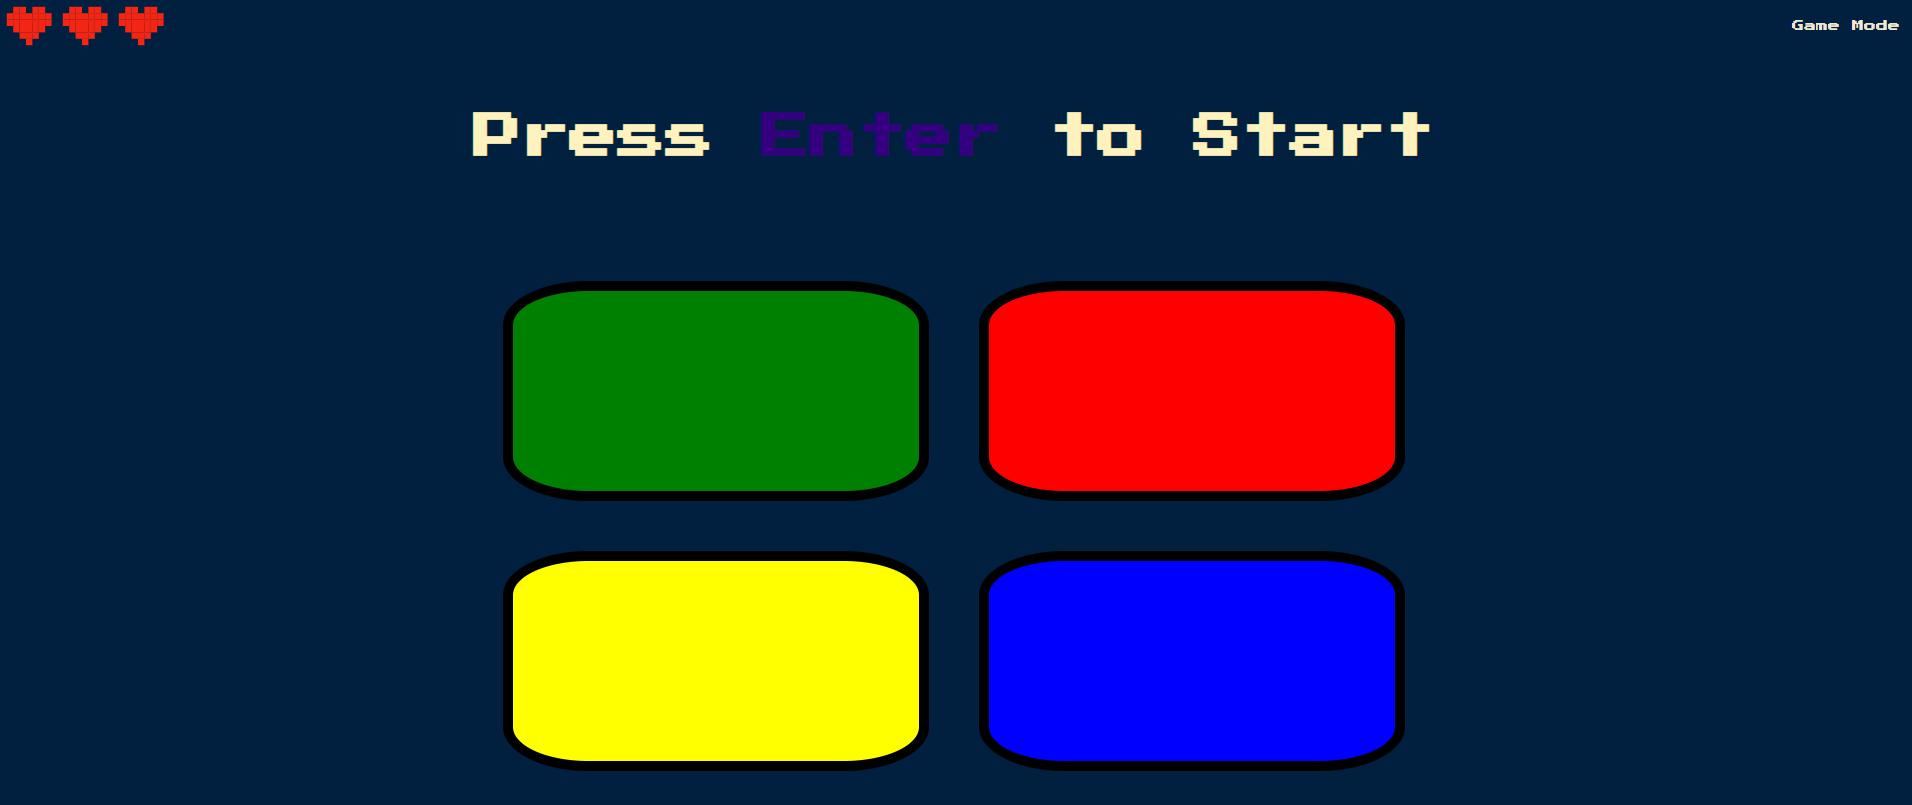
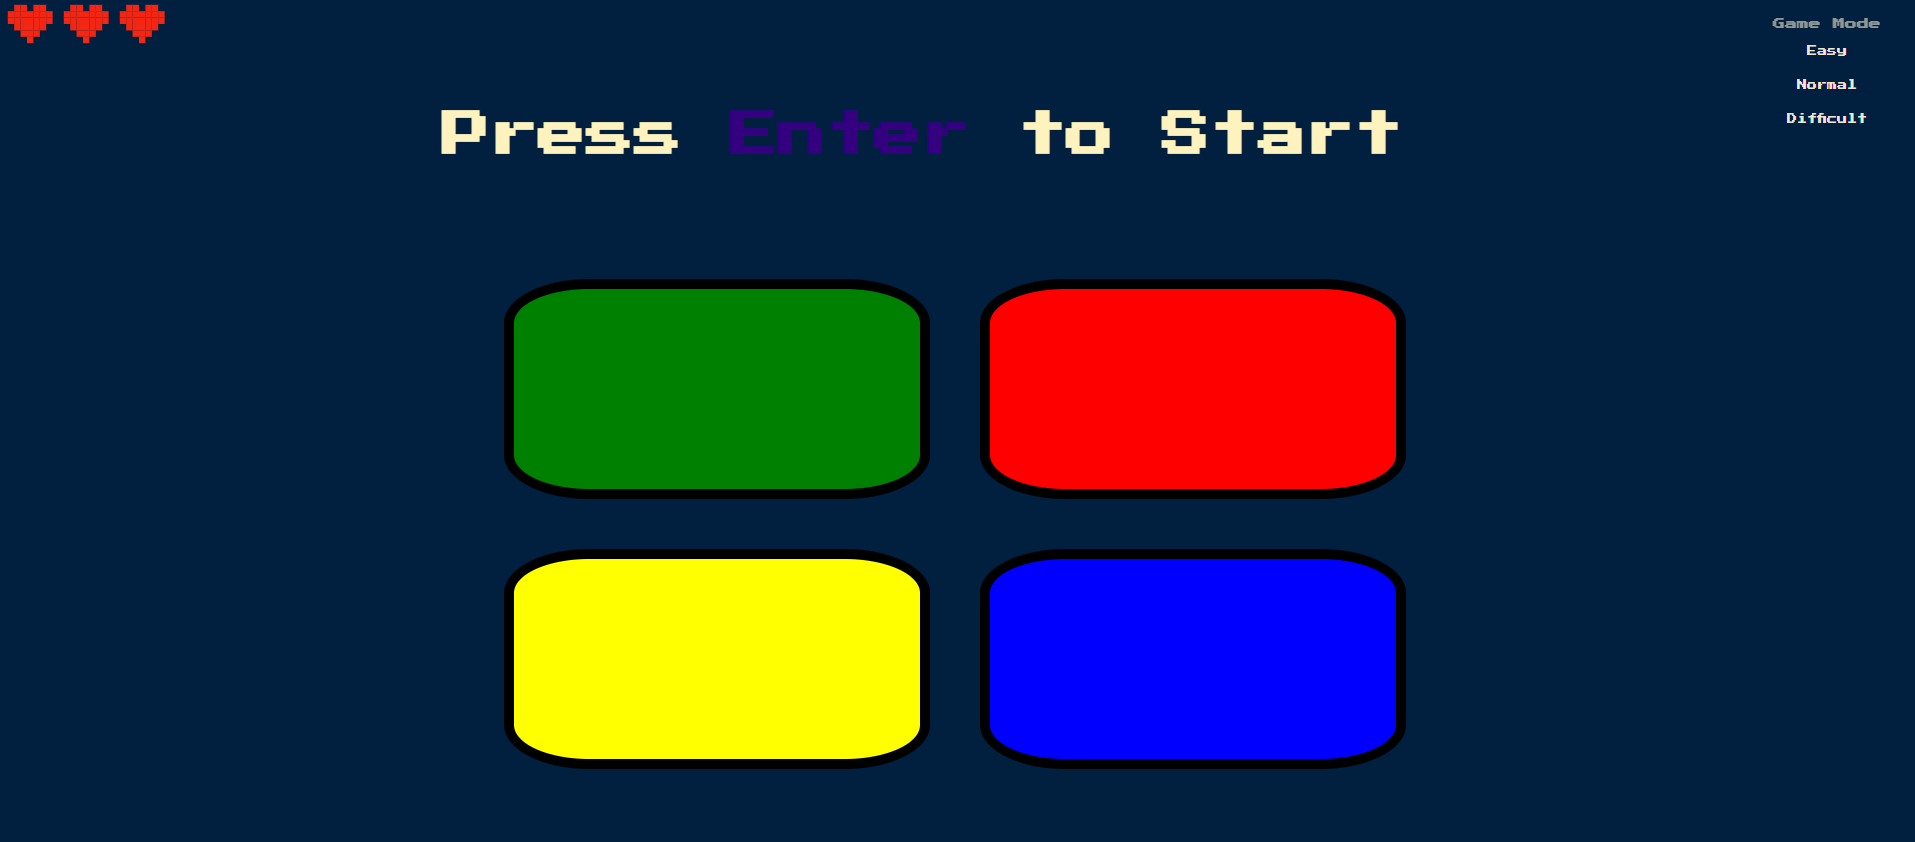
amend readme

diff --git a/README.md b/README.md
@@ -28,6 +28,16 @@ The game is deployed on GitHub pages, and you can play the game <a href="https:/
 <li>A Enter button to start the game</li>
 <li>A Restart button to go back to the game main page to re-play the game.</li>
 <br>
+ <p align="center">
+  <a href="" rel="noopener">
+ <img width=800px height=600px src="/images/Simon-Game-difficult.png" alt="Simon-Game-difficult"></a>
+</p>
+<br>
+ <p align="center">
+  <a href="" rel="noopener">
+ <img width=800px height=600px src="/images/Simon-Game-gameplay-normal.png" alt="Simon-Game-normal-gameplay"></a>
+</p>
+<br>
 
 ## Technologies & Tools Used
 <li>HTML</li>
@@ -172,7 +182,8 @@ numberOfLives = difficulty.numberOfLives;
 ```
 <li>Learning callbacks in class and applying it in practise</li>
 <br>
-The difficultyLevel function is the callback function that is called by getDifficuiltyLevel to compute the values for the maximum level and number of lives.<br> Which is later executed in response to a specific event such as the player clicking on a dropdown menu.
+<p>The difficultyLevel function is the callback function that is called by getDifficuiltyLevel to compute the values for the maximum level and number of lives.</p> 
+<p>Which is later executed in response to a specific event such as the player clicking on a dropdown menu.</p>
 
 ```
 function difficultyLevel(selectDifficultyLevel){
@@ -248,8 +259,16 @@ function getGameLevel(gameLevel){
 	return gameLevel;
 }
 ```
-<br>
 
+## Future Enhancements
+<p>As this game is part of a project submission, there would not be an future amendments made to this.</p>However, if there were any future enhancements to be made, these would be the following changes:</p>
+<li>Rewrite the code using the MVC approach</li>
+<li>Insert a countdown timer for the Normal levels and above</li>
+<li>Introduce different sounds/genre for the player to choose from</li>
+<li>Allowing the game to be paused half-way which also reduce player's live</li>
+<li>Include a mixtype to hype up the music</li>
+
+<br>
 ## References
 Various sources which I have seek guidance from:
 </li>
@@ -258,6 +277,8 @@ Various sources which I have seek guidance from:
 <li><a href=https://codepen.io/BenLBlood/pen/LGLEoJ>Simon Game</a>
 </li>
 <li><a href=https://www.javascripttutorial.net/javascript-return-multiple-values>Returning Multiple Values from a Function</a>
+</li>
+<li><a href=https://www.geeksforgeeks.org/jquery-not-method-with-examples>How to use not method in jQuery</a>
 </li>
 
 <br>
